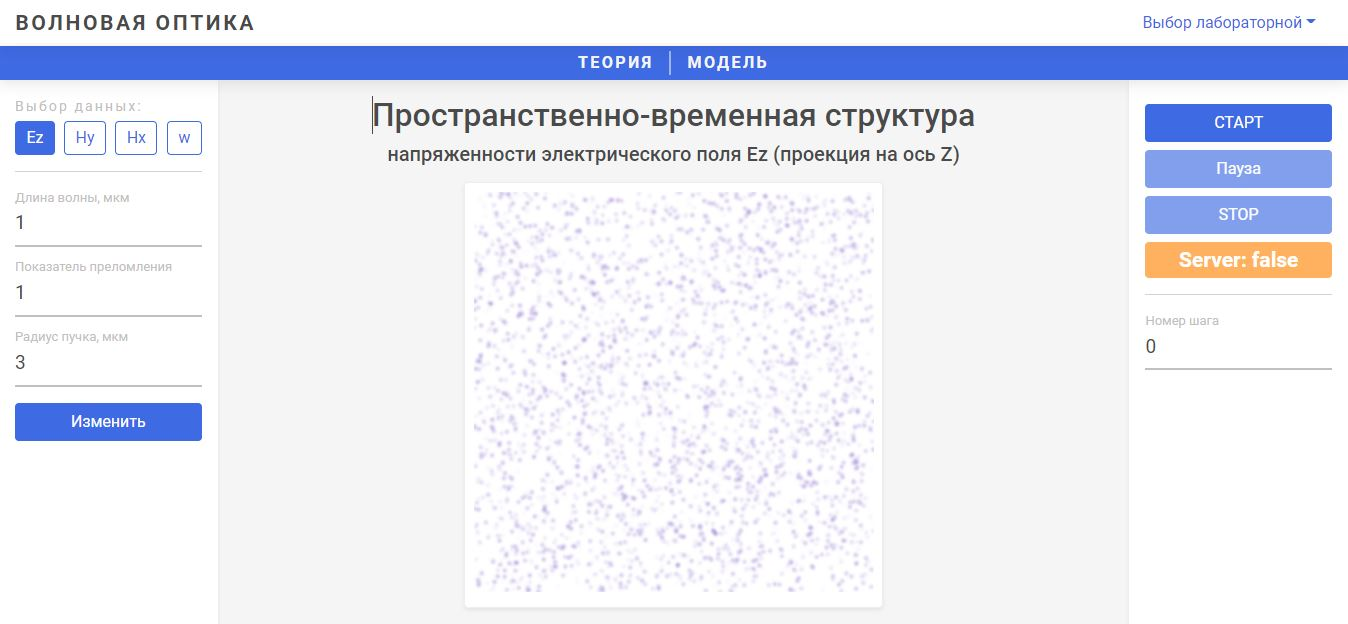
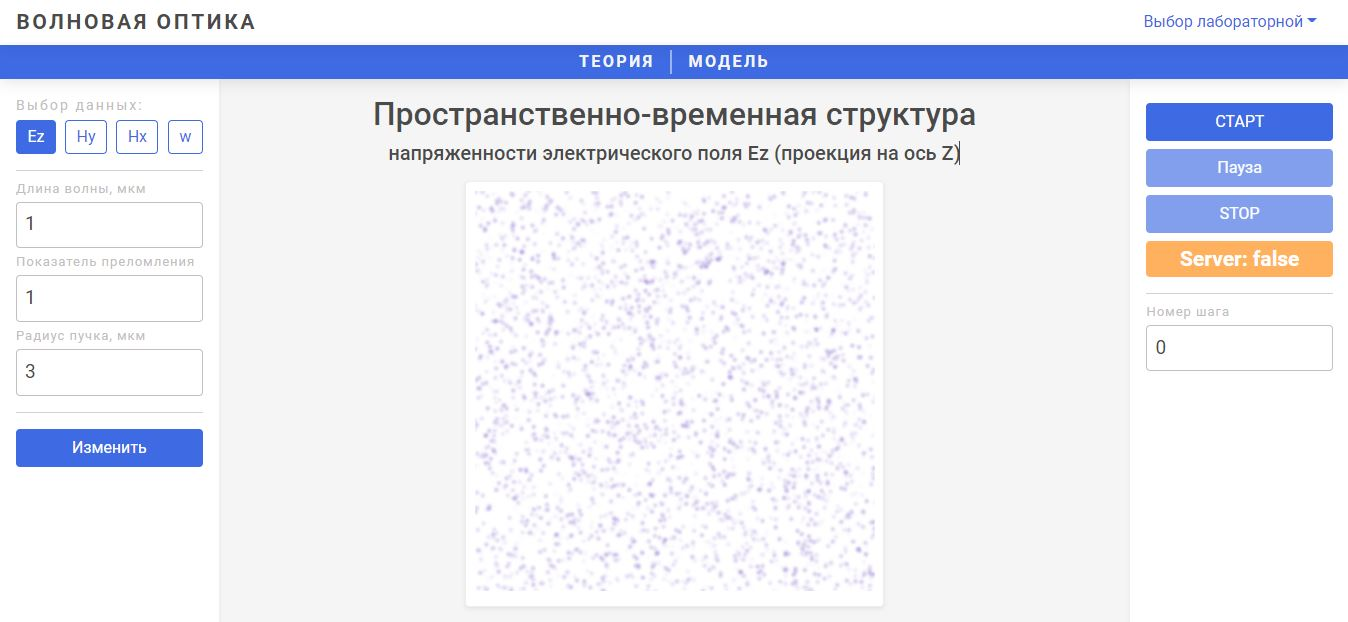
changed text input design

diff --git a/components/TextInput/textInput.module.scss b/components/TextInput/textInput.module.scss
@@ -1,28 +1,29 @@
 @import 'styles/colors.scss';
 
-
 .formGroup {
   position: relative;
   padding: 15px 0 0;
-  margin-top: 10px;
+  margin-top: 12px;
   width: 100%;
 }
 
 .formField {
   font-family: inherit;
   width: 100%;
-  border: 0;
-  border-bottom: 2px solid $gray;
+  // border: 0;
+  border-radius: 4px;
+  // border-bottom: 2px solid $gray;
+  border: 1px solid $gray;
   outline: 0;
   font-size: 1.2rem;
   color: $dark;
-  padding: 7px 0;
+  padding: 8px 8px;
   background: transparent;
   transition: border-color 0.2s;
   z-index: 1;
 
   &:hover {
-    border-bottom: 2px solid $primary;
+    border: 1px solid $primary;
     transition: 0.5s;
   }
 
@@ -33,16 +34,18 @@
   &:placeholder-shown ~ .formLabel {
     font-size: 1rem;
     cursor: text;
-    top: 20px;
+    top: 30px;
+    right: 40px;
   }
 }
 
 .formLabel {
   position: absolute;
-  top: 0;
+  top: -8px;
   display: block;
   transition: 0.2s;
   font-size: 0.81rem;
+  letter-spacing: 1px;
   color: $gray;
 }
 

diff --git a/pages/lab3/index.tsx b/pages/lab3/index.tsx
@@ -187,7 +187,7 @@ function Lab4() {
               value={beamsize}
               onChange={(e) => setBeamsize(+e.target.value)}
             />
-
+            <hr />
             <MatrixDisplay />
           </Sidebar>
 
